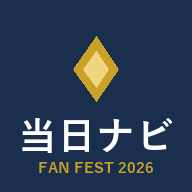
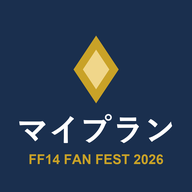
Rename app to FF14ファンフェス マイプラン; Android calendar via Google Calendar links
Claude-Session: https://claude.ai/code/session_01Vk7Vc7W882HyttSocTJ3bM

diff --git a/ff26navi.js b/ff26navi.js
@@ -1,4 +1,4 @@
-// ファンフェス2026東京 当日ナビ
+// FF14ファンフェス マイプラン（ファンフェス2026東京 当日ナビ）
 // 記事内の <div id="eg-ff26-navi"></div> に描画する。noindex.js の (5) から読み込まれる。
 // データは 2026-10-26 時点の公式サイト（ステージ・フロア情報）。
 (function () {
@@ -583,7 +583,7 @@
         y += 20;
         ctx.fillStyle = '#ddd5c2'; ctx.fillRect(P, y, W - P * 2, 2);
         ctx.fillStyle = '#555'; ctx.font = '22px ' + FONT;
-        ctx.fillText('エオルゼア攻略ガイド「ファンフェス2026東京 当日ナビ」で作成', P, y + 40);
+        ctx.fillText('エオルゼア攻略ガイド「FF14ファンフェス マイプラン」で作成', P, y + 40);
         ctx.fillText(PAGE_URL.replace('https://', ''), P, y + 74);
         ctx.fillStyle = '#888'; ctx.font = '20px ' + FONT;
         ctx.fillText('画像・マップ © SQUARE ENIX　移動・所要時間は目安で、待ち時間は含みません', P, y + 106);
@@ -759,28 +759,42 @@
     });
     return h + '</div><p class="nv-s">左がステージ（色が濃いものが見に行くもの）、右が自分の予定です。</p>';
   }
-  // カレンダー用のファイル（.ics）。iPhoneは開くと「すべて追加」、Androidはカレンダーのアプリで開く
+  // カレンダーに入れる。iPhoneは.icsファイル（開くと「すべて追加」）、Androidなどは予定ごとのGoogleカレンダーのリンク
+  // （Androidのブラウザは.icsを開かずに保存だけするため）
   function makeIcs() {
     var d = pst.day, r = simulate(d), no = 0, msg = document.getElementById('nv-icsmsg');
+    var ios = /iPhone|iPad|iPod/.test(navigator.userAgent) || (navigator.platform === 'MacIntel' && navigator.maxTouchPoints > 1);
     var ymd = d === 1 ? [2026, 9, 31] : [2026, 10, 1];
     function t(m) { var x = new Date(Date.UTC(ymd[0], ymd[1], ymd[2], 0, m - 540)); return x.toISOString().replace(/[-:]/g, '').slice(0, 15) + 'Z'; }
     function tx(v) { return String(v).replace(/([\\,;])/g, '\\$1').replace(/\n/g, '\\n'); }
     var NL = '\r\n';
-    var ev = r.rows.filter(function (x) { return x.kind === 'do' || x.kind === 'stage'; }).map(function (x) {
+    var list = r.rows.filter(function (x) { return x.kind === 'do' || x.kind === 'stage'; });
+    if (!list.length) { msg.innerHTML = '<p class="nv-s nv-now">先に行きたいものを選んでください。</p>'; return; }
+    if (!ios) {
+      msg.innerHTML = '<p class="nv-s">1件ずつ押すと、Googleカレンダーに入れる画面が開きます。「保存」を押したら、この画面に戻って次の予定へ進んでください。</p>' +
+        '<table class="eg-num"><tbody>' + list.map(function (x, i) {
+          var memo = pst.memo[rowKey(d, x)];
+          var q = 'action=TEMPLATE&text=' + encodeURIComponent(circled(i + 1) + ' ' + x.name + (rowRsv(d, x) ? '（予約）' : '')) +
+            '&dates=' + t(x.a) + '/' + t(x.b) + '&ctz=Asia/Tokyo&location=' + encodeURIComponent(placeLabel(x) + '・幕張メッセ周辺') +
+            '&details=' + encodeURIComponent((memo ? 'メモ：' + memo + '\n' : '') + 'FF14ファンフェス マイプラン\n' + PAGE_URL);
+          return '<tr><td>' + hm(x.a) + '</td><td><a href="https://calendar.google.com/calendar/render?' + q + '" target="_blank" rel="noopener">' + esc(circled(i + 1) + ' ' + x.name) + ' をカレンダーに入れる</a></td></tr>';
+        }).join('') + '</tbody></table>';
+      return;
+    }
+    var ev = list.map(function (x) {
       no++;
       var memo = pst.memo[rowKey(d, x)];
       return ['BEGIN:VEVENT', 'UID:ff26-' + d + '-' + no + '-' + x.a + '@eorzea-guide.com', 'DTSTAMP:' + t(0), 'DTSTART:' + t(x.a), 'DTEND:' + t(x.b),
         'SUMMARY:' + tx(circled(no) + ' ' + x.name + (rowRsv(d, x) ? '（予約）' : '')), 'LOCATION:' + tx(placeLabel(x) + '・幕張メッセ周辺'),
-        'DESCRIPTION:' + tx((memo ? 'メモ：' + memo + '\n' : '') + 'ファンフェス2026東京 当日ナビ\n' + PAGE_URL), 'URL:' + PAGE_URL,
+        'DESCRIPTION:' + tx((memo ? 'メモ：' + memo + '\n' : '') + 'FF14ファンフェス マイプラン\n' + PAGE_URL), 'URL:' + PAGE_URL,
         'BEGIN:VALARM', 'ACTION:DISPLAY', 'DESCRIPTION:' + tx(x.name), 'TRIGGER:-PT10M', 'END:VALARM', 'END:VEVENT'].join(NL);
     });
-    if (!ev.length) { msg.textContent = '先に行きたいものを選んでください。'; return; }
     var ics = ['BEGIN:VCALENDAR', 'VERSION:2.0', 'PRODID:-//eorzea-guide//ff26navi//JA', 'CALSCALE:GREGORIAN', 'METHOD:PUBLISH'].concat(ev, ['END:VCALENDAR']).join(NL) + NL;
     var url = 'data:text/calendar;charset=utf-8,' + encodeURIComponent(ics);
     var a = document.createElement('a');
     a.href = url; a.download = 'ff14_fanfest2026_' + (d === 1 ? '1031' : '1101') + '.ics';
     document.body.appendChild(a); a.click(); a.remove();
-    msg.textContent = ev.length + '件の予定を入れるファイルを作りました。iPhoneは「すべて追加」、Androidはカレンダーのアプリを選んでください。予定を直したときは、もう一度入れ直してください（前の予定は自動では消えません）。';
+    msg.innerHTML = '<p class="nv-s">' + ev.length + '件の予定を入れるファイルを作りました。出てきた画面で「すべて追加」を押してください。予定を直したときは、もう一度入れ直してください（前の予定は自動では消えません）。</p>';
   }
   function makeUrl() {
     var box = document.getElementById('nv-url'), c = planCode(pst.day);
@@ -868,8 +882,8 @@
         '<p><button type="button" class="nv-btn" data-mkimg>画像を作る</button></p><div id="nv-share"></div>' +
         '<p><strong>4. 予定をURLで送る</strong><br>同行する人にURLを送ると、相手のスマホで同じ予定（メモも）を開けます。相手が直したあと、送り返してもらうこともできます。</p>' +
         '<p><button type="button" class="nv-btn" data-url>予定のURLを作る</button></p><div id="nv-url"></div>' +
-        '<p><strong>5. スマホのカレンダーに入れる</strong><br>回る予定を、iPhoneやAndroidのカレンダーにまとめて入れます。始まる10分前に通知が出ます。</p>' +
-        '<p><button type="button" class="nv-btn" data-ics>カレンダーに入れる</button></p><p class="nv-s" id="nv-icsmsg"></p>';
+        '<p><strong>5. スマホのカレンダーに入れる</strong><br>回る予定を、iPhoneやAndroidのカレンダーに入れます。iPhoneはまとめて入り、始まる10分前に通知が出ます。AndroidはGoogleカレンダーに1件ずつ入れます。</p>' +
+        '<p><button type="button" class="nv-btn" data-ics>カレンダーに入れる</button></p><div id="nv-icsmsg"></div>';
     }
     h += '<p class="nv-s">所要時間に待ち列の時間は入っていません。混みそうな所は長めに選んでください。移動時間は地図上の距離から計算した目安で、混雑時はもっとかかります。予約が必要な体験は予約時間を優先してください。昼食は11時以降、キッチンカーは公式に営業時間の案内がないためカフェと同じ20:00までとして計算しています。</p>';
     proot.innerHTML = h;

diff --git a/ff26/index.html b/ff26/index.html
@@ -3,22 +3,22 @@
 <head>
 <meta charset="utf-8">
 <meta name="viewport" content="width=device-width,initial-scale=1,viewport-fit=cover">
-<title>ファンフェス2026東京 当日ナビ</title>
-<meta name="description" content="FF14ファンフェス2026東京（10/31・11/1 幕張メッセ）の当日ナビ。いま上演中のステージ、受付終了まであと何分か、回る順番、ホールのマップ、シャトルバスの時刻表。ファンが作った非公式のツールです。">
+<title>FF14ファンフェス マイプラン｜2026東京</title>
+<meta name="description" content="FF14ファンフェス2026東京（10/31・11/1 幕張メッセ）を回る予定を作るアプリ。いま上演中のステージ、受付終了まであと何分か、回る順番、ホールのマップ、シャトルバスの時刻表。ファンが作った非公式のツールです。">
 <meta name="theme-color" content="#1a2f4e">
 <meta name="apple-mobile-web-app-capable" content="yes">
 <meta name="mobile-web-app-capable" content="yes">
 <meta name="apple-mobile-web-app-status-bar-style" content="black-translucent">
-<meta name="apple-mobile-web-app-title" content="当日ナビ">
+<meta name="apple-mobile-web-app-title" content="マイプラン">
 <link rel="manifest" href="manifest.webmanifest">
 <link rel="icon" href="icon-192.png">
 <link rel="apple-touch-icon" href="icon-180.png">
-<link rel="stylesheet" href="app.css?v=2">
+<link rel="stylesheet" href="app.css?v=3">
 </head>
 <body>
 <header class="ap-hd">
   <p class="ap-sub">FAN FESTIVAL 2026 TOKYO　10.31 SAT – 11.01 SUN　幕張メッセ</p>
-  <h1>ファンフェス 当日ナビ</h1>
+  <h1>FF14ファンフェス マイプラン</h1>
 </header>
 
 <main>
@@ -47,7 +47,7 @@
   <button type="button" data-tab="map"><svg viewBox="0 0 24 24" aria-hidden="true"><path d="M12 21s-6-6.2-6-11a6 6 0 0 1 12 0c0 4.8-6 11-6 11z"/><circle cx="12" cy="10" r="2.2"/></svg>マップ</button>
 </nav>
 
-<script src="../ff26navi.js?v=14"></script>
-<script src="app.js?v=2"></script>
+<script src="../ff26navi.js?v=15"></script>
+<script src="app.js?v=3"></script>
 </body>
 </html>

diff --git a/ff26/app.js b/ff26/app.js
@@ -1,4 +1,4 @@
-// 当日ナビのアプリ版：下のタブで画面を切り替える。ホーム画面に追加すると全画面で開き、電波が弱くても前に開いた内容で動く
+// FF14ファンフェス マイプラン（当日ナビのアプリ版）：下のタブで画面を切り替える。ホーム画面に追加すると全画面で開き、電波が弱くても前に開いた内容で動く
 (function () {
   var KEY = 'eg-ff26-tab';
   var tabs = document.querySelectorAll('[data-tab]');

diff --git a/ff26/sw.js b/ff26/sw.js
@@ -1,5 +1,5 @@
-// 当日ナビ アプリ版のオフライン対応。画面とJSは「ネット優先・だめなら保存済み」、画像は「保存済み優先」
-var CACHE = 'ff26-v3';
+// FF14ファンフェス マイプラン（当日ナビのアプリ版）のオフライン対応。画面とJSは「ネット優先・だめなら保存済み」、画像は「保存済み優先」
+var CACHE = 'ff26-v4';
 var FILES = [
   './',
   'index.html',

diff --git a/ff26/app.css b/ff26/app.css
@@ -1,4 +1,4 @@
-/* 当日ナビ アプリ版。ナビ本体（ff26navi.js）のスタイルはそちらで入るので、ここは画面の枠と表だけ */
+/* FF14ファンフェス マイプラン（当日ナビのアプリ版）。ナビ本体（ff26navi.js）のスタイルはそちらで入るので、ここは画面の枠と表だけ */
 :root {
   --navy: #1a2f4e;
   --gold: #c9a227;

diff --git a/noindex.js b/noindex.js
@@ -260,7 +260,7 @@
   function run() {
     if (!document.getElementById('eg-ff26-navi')) return;
     var s = document.createElement('script');
-    s.src = 'https://dualstreammedia-droid.github.io/eorzea-guide-theme/ff26navi.js?v=14';
+    s.src = 'https://dualstreammedia-droid.github.io/eorzea-guide-theme/ff26navi.js?v=15';
     s.async = true;
     document.body.appendChild(s);
   }
